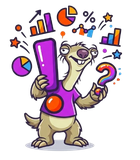
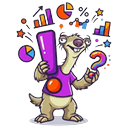
Cartes projets uniformisees et section robotique
Normalise les quatre logos Sid en carres 128x128 (recadrage sur le contenu
puis centrage), le logo SidVault etant un rond dans un cadre 677x369 qui se
retrouvait deux fois plus petit que les autres a largeur egale.

Passe les cartes en HTML pur plutot qu'en markdown imbrique dans des <td>,
sur une seule ligne de quatre, et retire les pins redondants.

Ajoute un groupe Robotics & Simulation : ROS/ROS 2, Gazebo, MATLAB,
Simulink, SolidWorks, Ansys, OpenCV, et regroupe le reste par domaine.

diff --git a/README.md b/README.md
@@ -2,98 +2,76 @@
 
 # zubulmuk92
 
-**Mechatronics Engineering Student** · Electronics R&D · Full-Stack & Web3 Developer
+**Mechatronics Engineering Student** · Electronics R&D · Full-Stack Developer
 
-<sub>France · Building desktop software in Rust & Python, real-time web apps, and embedded systems.</sub>
+<sub>France · Robotics and embedded systems · Desktop software in Rust &amp; Python · Real-time web apps</sub>
 
 </div>
 
----
+<br>
 
-## Featured Projects
+## Projects
 
 <table>
 <tr>
 
-<td width="50%" valign="top">
-
+<td width="25%" align="center" valign="top">
 <a href="https://zubulmuk92.github.io/SidVault/">
-  <img src="https://raw.githubusercontent.com/zubulmuk92/SidVault/HEAD/logo.png" width="56" align="left" hspace="10" alt="">
+<img src="https://raw.githubusercontent.com/zubulmuk92/zubulmuk92/HEAD/assets/sidvault.png" width="76" alt="">
 </a>
-
-### SidVault
-
-Local password manager for Windows. One encrypted file on your disk — no server, no account, no network calls. The `.svault` format is documented and ships with an independent reference reader, so your data outlives the software.
-
-`Rust` · `Argon2id` · `TOTP` · `CLI + resident agent`
-
-[**Website**](https://zubulmuk92.github.io/SidVault/) · [Source](https://github.com/zubulmuk92/SidVault) · [Format spec](https://github.com/zubulmuk92/SidVault/blob/main/docs/format-svault.md)
-
+<h3>SidVault</h3>
+<p>Password manager for Windows. One encrypted file on your disk — no server, no account, no network calls. The format is documented and ships with an independent reference reader.</p>
+<p><sub><code>Rust</code> · <code>Argon2id</code> · <code>TOTP</code></sub></p>
+<p>
+<a href="https://zubulmuk92.github.io/SidVault/"><b>Website</b></a> ·
+<a href="https://github.com/zubulmuk92/SidVault">Source</a>
+</p>
 </td>
 
-<td width="50%" valign="top">
-
+<td width="25%" align="center" valign="top">
 <a href="https://zubulmuk92.github.io/SidSoundboard/">
-  <img src="https://raw.githubusercontent.com/zubulmuk92/SidSoundboard/HEAD/logo_sq.png" width="56" align="left" hspace="10" alt="">
+<img src="https://raw.githubusercontent.com/zubulmuk92/zubulmuk92/HEAD/assets/sidsoundboard.png" width="76" alt="">
 </a>
-
-### SidSoundboard
-
-Windows soundboard that costs zero CPU while playing. FFmpeg pre-renders each effect once, so triggering a sound is just a disk stream — and the headset and the virtual cable play the exact same file.
-
-`Python` · `Qt` · `FFmpeg` · `single-file .exe`
-
-[**Website**](https://zubulmuk92.github.io/SidSoundboard/) · [Source](https://github.com/zubulmuk92/SidSoundboard) · [Download](https://github.com/zubulmuk92/SidSoundboard/releases/latest)
-
+<h3>SidSoundboard</h3>
+<p>Soundboard for Windows that costs zero CPU while playing. Effects are pre-rendered once, so the headset and the virtual cable play the exact same file.</p>
+<p><sub><code>Python</code> · <code>Qt</code> · <code>FFmpeg</code></sub></p>
+<p>
+<a href="https://zubulmuk92.github.io/SidSoundboard/"><b>Website</b></a> ·
+<a href="https://github.com/zubulmuk92/SidSoundboard">Source</a>
+</p>
 </td>
 
-</tr>
-<tr>
-
-<td width="50%" valign="top">
-
+<td width="25%" align="center" valign="top">
 <a href="https://sid-crazystats.vercel.app">
-  <img src="https://raw.githubusercontent.com/zubulmuk92/zubulmuk92/HEAD/assets/sidcrazystats.png" width="56" align="left" hspace="10" alt="">
+<img src="https://raw.githubusercontent.com/zubulmuk92/zubulmuk92/HEAD/assets/sidcrazystats.png" width="76" alt="">
 </a>
-
-### SidCrazyStats
-
-Multiplayer general-knowledge game. Real-time rooms where you and your friends compete on genuinely odd facts from geography, history and politics.
-
-`React` · `Vite` · `Supabase Realtime` · `Framer Motion`
-
-[**Play**](https://sid-crazystats.vercel.app) · ![Source](https://img.shields.io/badge/source-private-6E7681?style=flat-square)
-
+<h3>SidCrazyStats</h3>
+<p>Real-time multiplayer quiz. Rooms where you and your friends compete on genuinely odd facts from geography, history and politics.</p>
+<p><sub><code>React</code> · <code>Supabase</code> · <code>Realtime</code></sub></p>
+<p>
+<a href="https://sid-crazystats.vercel.app"><b>Play</b></a> ·
+<img src="https://img.shields.io/badge/source-private-6E7681?style=flat-square" alt="private source">
+</p>
 </td>
 
-<td width="50%" valign="top">
-
+<td width="25%" align="center" valign="top">
 <a href="https://sid-imitateur.vercel.app">
-  <img src="https://raw.githubusercontent.com/zubulmuk92/zubulmuk92/HEAD/assets/sidimmitateur.png" width="56" align="left" hspace="10" alt="">
+<img src="https://raw.githubusercontent.com/zubulmuk92/zubulmuk92/HEAD/assets/sidimmitateur.png" width="76" alt="">
 </a>
-
-### SidImmitateur
-
-Multiplayer party game built on imitation. Clip a moment out of a YouTube video, everyone tries to reproduce it, and the room decides who got closest.
-
-`React` · `Vite` · `Tailwind` · `Socket.IO`
-
-[**Play**](https://sid-imitateur.vercel.app) · ![Source](https://img.shields.io/badge/source-private-6E7681?style=flat-square)
-
+<h3>SidImmitateur</h3>
+<p>Multiplayer party game. Clip a moment out of a YouTube video, everyone tries to reproduce it, and the room decides who got closest.</p>
+<p><sub><code>React</code> · <code>Socket.IO</code> · <code>Node</code></sub></p>
+<p>
+<a href="https://sid-imitateur.vercel.app"><b>Play</b></a> ·
+<img src="https://img.shields.io/badge/source-private-6E7681?style=flat-square" alt="private source">
+</p>
 </td>
 
 </tr>
 </table>
 
-<div align="center">
-
-[![SidVault](https://github-readme-stats.vercel.app/api/pin/?username=zubulmuk92&repo=SidVault&theme=tokyonight&hide_border=true&bg_color=0D1117)](https://github.com/zubulmuk92/SidVault)
-[![SidSoundboard](https://github-readme-stats.vercel.app/api/pin/?username=zubulmuk92&repo=SidSoundboard&theme=tokyonight&hide_border=true&bg_color=0D1117)](https://github.com/zubulmuk92/SidSoundboard)
-
-</div>
-
 <details>
-<summary><b>Other repositories</b></summary>
+<summary>Earlier repositories</summary>
 
 <br>
 
@@ -101,65 +79,61 @@ Multiplayer party game built on imitation. Clip a moment out of a YouTube video,
 |---|---|---|
 | [Elec-App](https://github.com/zubulmuk92/Elec-App) | Web toolkit for electronics students | `JavaScript` |
 | [Meteo-App](https://github.com/zubulmuk92/Meteo-App) | Weather lookup web app | `JavaScript` |
-| [connexion-steam-php](https://github.com/zubulmuk92/connexion-steam-php) | Steam API authentication in PHP | `PHP` |
+| [connexion-steam-php](https://github.com/zubulmuk92/connexion-steam-php) | Steam API authentication | `PHP` |
 | [zbLSPD](https://github.com/zubulmuk92/zbLSPD) | Optimised LSPD script, RageUI V2 | `Lua` · FiveM |
-| [menuExempleRageUIV2](https://github.com/zubulmuk92/menuExempleRageUIV2) | RageUI V2 menu example — YouTube tutorial series | `Lua` · FiveM |
+| [menuExempleRageUIV2](https://github.com/zubulmuk92/menuExempleRageUIV2) | RageUI V2 menu example, from my YouTube tutorial series | `Lua` · FiveM |
 | [zbNoel](https://github.com/zubulmuk92/zbNoel) · [zbHalloween](https://github.com/zubulmuk92/zbHalloween) | Seasonal event scripts | `Lua` · FiveM |
 
 </details>
 
----
+<br>
 
-## What I Work On
+## Stack
 
-| | |
-|---|---|
-| **Education** | Mechatronics Engineering |
-| **R&D** | Electronics, IoT, embedded systems, hardware/software integration |
-| **Web3** | dApps, smart contracts, decentralised architectures |
-| **Game Dev** | Custom game scripts, automation tools, modding frameworks |
-| **Simulation & CAD** | SolidWorks (3D modeling) · Ansys (finite element analysis) |
+**Robotics &amp; Simulation**
 
----
+![ROS](https://img.shields.io/badge/ROS%20%2F%20ROS%202-22314E?style=flat-square&logo=ros&logoColor=white)
+![Gazebo](https://img.shields.io/badge/Gazebo-F58113?style=flat-square&logoColor=white)
+![MATLAB](https://img.shields.io/badge/MATLAB-0076A8?style=flat-square)
+![Simulink](https://img.shields.io/badge/Simulink-E16737?style=flat-square)
+![SolidWorks](https://img.shields.io/badge/SolidWorks-E11B22?style=flat-square&logo=dassaultsystemes&logoColor=white)
+![Ansys](https://img.shields.io/badge/Ansys-FFB71B?style=flat-square&logo=ansys&logoColor=black)
+![OpenCV](https://img.shields.io/badge/OpenCV-5C3EE8?style=flat-square&logo=opencv&logoColor=white)
 
-## Tech Stack
+**Embedded &amp; Hardware**
 
-**Languages**
-
-![Rust](https://img.shields.io/badge/Rust-000000?style=flat-square&logo=rust&logoColor=white)
-![Python](https://img.shields.io/badge/Python-3776AB?style=flat-square&logo=python&logoColor=white)
 ![C](https://img.shields.io/badge/C-A8B9CC?style=flat-square&logo=c&logoColor=white)
 ![C++](https://img.shields.io/badge/C%2B%2B-00599C?style=flat-square&logo=cplusplus&logoColor=white)
+![Rust](https://img.shields.io/badge/Rust-000000?style=flat-square&logo=rust&logoColor=white)
+![Arduino](https://img.shields.io/badge/Arduino-00979D?style=flat-square&logo=arduino&logoColor=white)
+![Raspberry Pi](https://img.shields.io/badge/Raspberry%20Pi-A22846?style=flat-square&logo=raspberrypi&logoColor=white)
+![KiCad](https://img.shields.io/badge/KiCad-314CB0?style=flat-square&logo=kicad&logoColor=white)
+
+**Software &amp; Web**
+
+![Python](https://img.shields.io/badge/Python-3776AB?style=flat-square&logo=python&logoColor=white)
 ![TypeScript](https://img.shields.io/badge/TypeScript-3178C6?style=flat-square&logo=typescript&logoColor=white)
 ![JavaScript](https://img.shields.io/badge/JavaScript-F7DF1E?style=flat-square&logo=javascript&logoColor=black)
-![Lua](https://img.shields.io/badge/Lua-2C2D72?style=flat-square&logo=lua&logoColor=white)
-![Solidity](https://img.shields.io/badge/Solidity-363636?style=flat-square&logo=solidity&logoColor=white)
-![PHP](https://img.shields.io/badge/PHP-777BB4?style=flat-square&logo=php&logoColor=white)
-![Dart](https://img.shields.io/badge/Dart-0175C2?style=flat-square&logo=dart&logoColor=white)
-
-**Frameworks & Runtime**
-
 ![React](https://img.shields.io/badge/React-61DAFB?style=flat-square&logo=react&logoColor=black)
 ![Vite](https://img.shields.io/badge/Vite-646CFF?style=flat-square&logo=vite&logoColor=white)
-![Vue.js](https://img.shields.io/badge/Vue.js-4FC08D?style=flat-square&logo=vuedotjs&logoColor=white)
-![Node.js](https://img.shields.io/badge/Node.js-339933?style=flat-square&logo=nodedotjs&logoColor=white)
 ![Tailwind CSS](https://img.shields.io/badge/Tailwind-06B6D4?style=flat-square&logo=tailwindcss&logoColor=white)
+![Node.js](https://img.shields.io/badge/Node.js-339933?style=flat-square&logo=nodedotjs&logoColor=white)
 ![Socket.IO](https://img.shields.io/badge/Socket.IO-010101?style=flat-square&logo=socketdotio&logoColor=white)
 ![Supabase](https://img.shields.io/badge/Supabase-3FCF8E?style=flat-square&logo=supabase&logoColor=white)
 ![Qt](https://img.shields.io/badge/Qt-41CD52?style=flat-square&logo=qt&logoColor=white)
 ![Flutter](https://img.shields.io/badge/Flutter-02569B?style=flat-square&logo=flutter&logoColor=white)
+![Lua](https://img.shields.io/badge/Lua-2C2D72?style=flat-square&logo=lua&logoColor=white)
+![PHP](https://img.shields.io/badge/PHP-777BB4?style=flat-square&logo=php&logoColor=white)
 
-**Hardware & Tooling**
+**Tooling**
 
-![Arduino](https://img.shields.io/badge/Arduino-00979D?style=flat-square&logo=arduino&logoColor=white)
-![Raspberry Pi](https://img.shields.io/badge/Raspberry%20Pi-A22846?style=flat-square&logo=raspberrypi&logoColor=white)
-![Docker](https://img.shields.io/badge/Docker-2496ED?style=flat-square&logo=docker&logoColor=white)
 ![Git](https://img.shields.io/badge/Git-F05032?style=flat-square&logo=git&logoColor=white)
+![Docker](https://img.shields.io/badge/Docker-2496ED?style=flat-square&logo=docker&logoColor=white)
 ![Linux](https://img.shields.io/badge/Linux-FCC624?style=flat-square&logo=linux&logoColor=black)
 ![Vercel](https://img.shields.io/badge/Vercel-000000?style=flat-square&logo=vercel&logoColor=white)
 ![FFmpeg](https://img.shields.io/badge/FFmpeg-007808?style=flat-square&logo=ffmpeg&logoColor=white)
 
----
+<br>
 
 ## Activity
 
